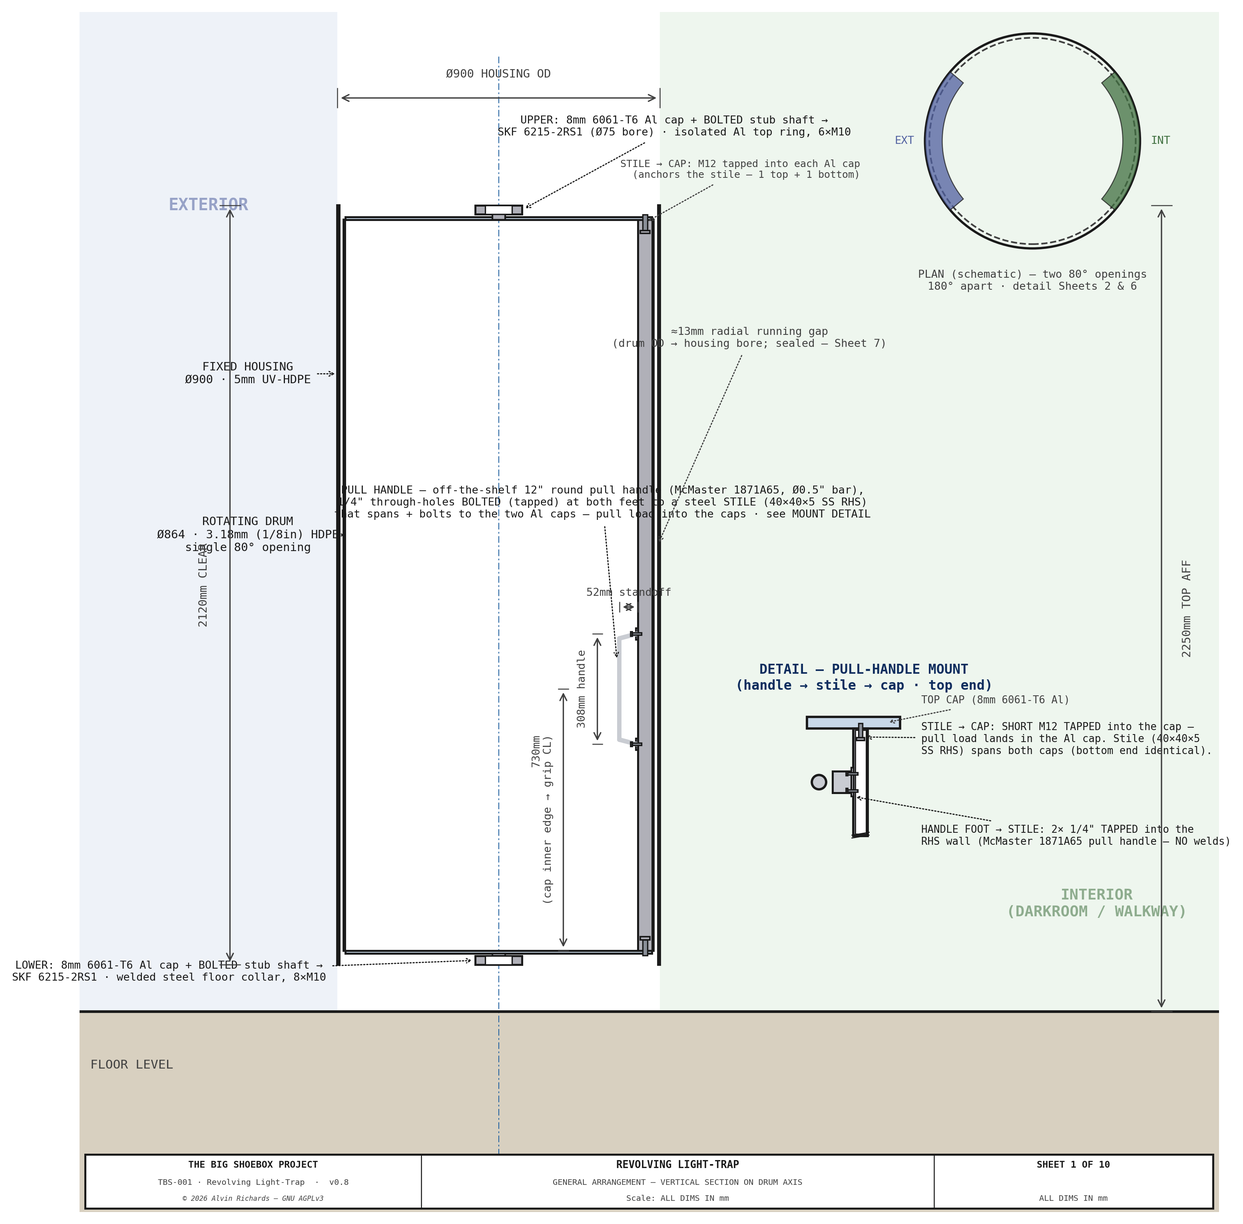
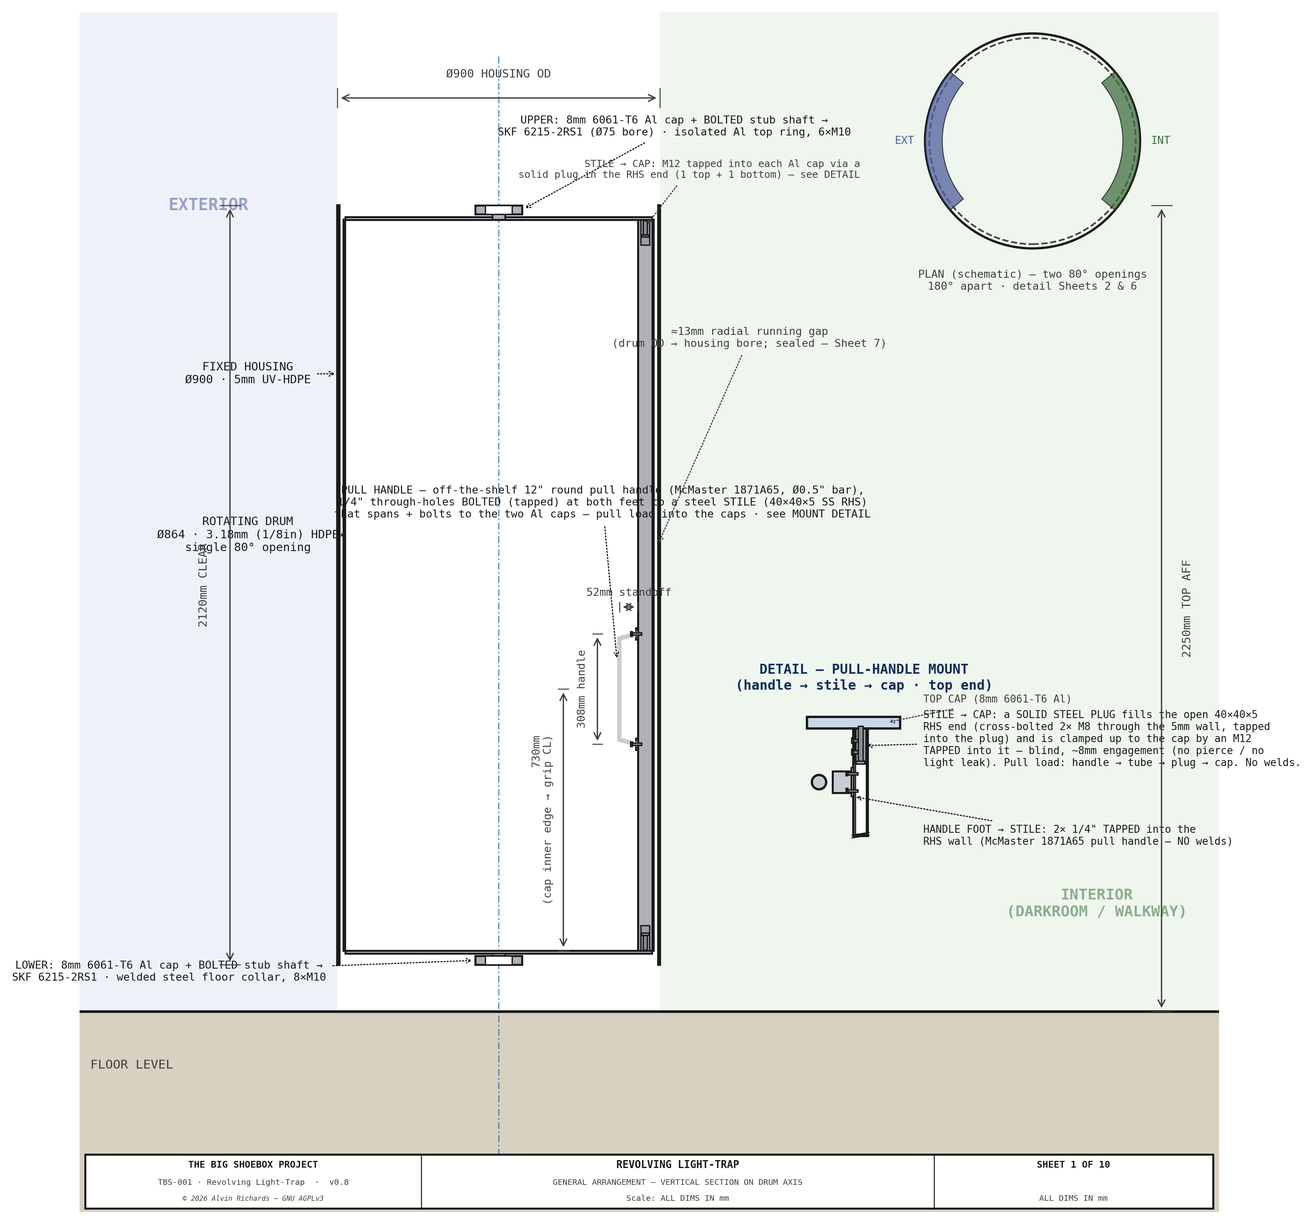
light-trap Sheet 1: stile->cap plug fastener detail
The handle stile is a 40x40x5 open RHS, so the old 'M12 straight into the cap
end' had no valid load path. Reworked to a solid steel plug fitted in each RHS
end (cross-bolted 2x M8 through the walls); a single M12 tapped into the cap
clamps each plug up to it (blind, ~8mm engagement - no pierce/light leak), so
the pull load runs handle -> tube -> plug -> cap.

- Sheet 1 PULL-HANDLE MOUNT detail redrawn (plug + cross-bolts + M12 + load-path
  note); main-view stile ends updated to match + reference the detail.
- parts.py ll-handle-stile (plugs) + F4/F6 (2x M12 + 4x M8, existing packs),
  report prose reconciled; lot still $97, gates green.

diff --git a/src/generators/generate_lighttrap_diagram.py b/src/generators/generate_lighttrap_diagram.py
@@ -297,10 +297,11 @@ def draw_sheet1():
     STILE_W = 40
     stile_x = DI_R - STILE_W                                     # stile just off the interior wall
     draw_rect(ax, stile_x, Z_CAP_B, STILE_W, Z_CAP_T - Z_CAP_B, fc=C_STEEL, lw=1.2, zorder=6)   # handle stile (cap→cap)
-    draw_bolt(ax, stile_x + STILE_W / 2, Z_CAP_T - 8, 44, d=14, head=-1, end="tapped")          # stile → TOP cap
-    draw_bolt(ax, stile_x + STILE_W / 2, Z_CAP_B + 8, 44, d=14, head=1, end="tapped")           # stile → BOTTOM cap
-    leader(ax, stile_x + STILE_W / 2, Z_CAP_T - 8, stile_x + 620, Z_CAP_T + 140,
-           "STILE → CAP: M12 tapped into each Al cap\n(anchors the stile — 1 top + 1 bottom)", fs=6.0, color=C_DIM,
+    for zc, hd_ in ((Z_CAP_T, -1), (Z_CAP_B, 1)):                                               # stile-end plug + M12 → each cap
+        draw_rect(ax, stile_x + 8, min(zc, zc + hd_ * 70), STILE_W - 16, 70, fc="#9AA0A8", lw=0.8, zorder=7)  # solid plug in tube end
+        draw_bolt(ax, stile_x + STILE_W / 2, zc + hd_ * 22, 40, d=11, head=hd_, end="tapped", zb=8)           # M12 tapped into cap
+    leader(ax, stile_x + STILE_W / 2, Z_CAP_T - 20, stile_x + 620, Z_CAP_T + 140,
+           "STILE → CAP: M12 tapped into each Al cap via a\nsolid plug in the RHS end (1 top + 1 bottom) — see DETAIL", fs=6.0, color=C_DIM,
            ha="right", arrow_style="->", font=FONT)
     GX = stile_x - GRAB_SO                                       # grip standoff, inboard of the stile
     GZ0, GZ1 = GRAB_Z - GRAB_L / 2, GRAB_Z + GRAB_L / 2
@@ -334,10 +335,17 @@ def draw_sheet1():
     ax.text(hdx + 10, hdz + 250, "DETAIL — PULL-HANDLE MOUNT\n(handle → stile → cap · top end)", ha="center",
             va="bottom", fontsize=8, color=TITLE_COL, fontweight="bold", **FONT, zorder=15)
     cpy = hdz + 150                                                                     # top-cap underside plane
-    draw_rect(ax, hdx - 150, cpy, 260, 32, fc=C_ALUM, lw=1.4, zorder=6)                 # TOP CAP (Al)
-    draw_rect(ax, hdx - 20, hdz - 150, 40, cpy - (hdz - 150), fc=C_STEEL, lw=1.4, zorder=6)  # handle stile (40×40×5 SS RHS)
-    draw_rect(ax, hdx - 15, hdz - 145, 30, cpy - (hdz - 145) - 5, fc=BG, lw=0.7, zorder=7)   # RHS bore (hollow, 5mm wall)
-    draw_bolt(ax, hdx, cpy - 6, 40, d=12, head=-1, end="tapped")                        # stile → cap: SHORT M12 TAPPED into the cap
+    draw_rect(ax, hdx - 150, cpy, 260, 32, fc=C_ALUM, lw=1.4, zorder=6)                 # TOP CAP (8mm Al)
+    # handle stile — 40×40×5 SS RHS in section (two 5mm side walls + hollow bore)
+    draw_rect(ax, hdx - 20, hdz - 150, 40, cpy - (hdz - 150), fc=C_STEEL, lw=1.4, zorder=6)
+    draw_rect(ax, hdx - 15, hdz - 145, 30, cpy - (hdz - 145), fc=BG, lw=0.7, zorder=7)  # RHS bore (hollow, 5mm wall)
+    # SOLID STEEL PLUG fitted in the open RHS end — gives the tube a face to fasten; the M12
+    # clamps it up to the cap, and it is cross-bolted to the tube walls so the pull load transfers.
+    draw_rect(ax, hdx - 15, cpy - 96, 30, 96, fc="#9AA0A8", lw=1.2, zorder=8)           # solid plug (fills the bore)
+    ax.add_patch(mpatches.Rectangle((hdx - 7, cpy - 96), 14, 96, fc=BG, ec="none", zorder=8))  # M12 clearance thru plug
+    draw_bolt(ax, hdx, cpy - 43, 98, d=13, head=-1, end="tapped", zb=10)               # M12 up into the TAPPED cap
+    for cz in (cpy - 34, cpy - 66):                                                    # 2× M8 cross-bolts → plug (retention)
+        draw_bolt(ax, hdx - 14, cz, 12, d=8, vertical=False, head=-1, end="tapped", zb=11)
     # off-the-shelf pull-handle foot BOLTED to the stile (2× 1/4" through-screws, tapped into the RHS wall — NO welds)
     draw_rect(ax, hdx - 78, hdz - 30, 58, 60, fc="#C9CCD2", lw=1.2, zorder=5)           # pull-handle arm → foot
     draw_rect(ax, hdx - 26, hdz - 40, 7, 80, fc=C_STEEL, lw=1.0, zorder=6)              # flat foot pad (0.27") on the stile face
@@ -346,9 +354,11 @@ def draw_sheet1():
     draw_circle(ax, hdx - 116, hdz, 20, lw=1.4, color=C_OUT, fill=True, fc="#C9CCD2", zorder=8)  # pull-handle Ø0.5" bar
     for zz in (hdz - 144, hdz - 152):                                                   # break (stile continues to the bottom cap)
         ax.plot([hdx - 24, hdx + 24], [zz - 4, zz + 4], color=C_OUT, lw=0.6, zorder=9)
-    leader(ax, hdx + 70, cpy + 16, hdx + 170, cpy + 78, "TOP CAP (8mm 6061-T6 Al)", fs=6.2, color=C_DIM, ha="left", arrow_style="->", font=FONT)
-    leader(ax, hdx + 6, cpy - 24, hdx + 170, cpy - 30, f"STILE → CAP: SHORT M12 TAPPED into the cap —\npull load lands in the Al cap. Stile ({STILE_W}×{STILE_W}×5\nSS RHS) spans both caps (bottom end identical).", fs=6.2, color=C_OUT, ha="left", arrow_style="->", font=FONT)
-    leader(ax, hdx - 22, hdz - 40, hdx + 170, hdz - 150, "HANDLE FOOT → STILE: 2× 1/4\" TAPPED into the\nRHS wall (McMaster 1871A65 pull handle — NO welds)", fs=6.2, color=C_OUT, ha="left", arrow_style="->", font=FONT)
+    leader(ax, hdx + 70, cpy + 16, hdx + 175, cpy + 80, "TOP CAP (8mm 6061-T6 Al)", fs=6.2, color=C_DIM, ha="left", arrow_style="->", font=FONT)
+    leader(ax, hdx + 8, cpy - 48, hdx + 175, cpy - 30,
+           f"STILE → CAP: a SOLID STEEL PLUG fills the open {STILE_W}×{STILE_W}×5\nRHS end (cross-bolted 2× M8 through the 5mm wall, tapped\ninto the plug) and is clamped up to the cap by an M12\nTAPPED into it — blind, ~8mm engagement (no pierce / no\nlight leak). Pull load: handle → tube → plug → cap. No welds.",
+           fs=6.2, color=C_OUT, ha="left", arrow_style="->", font=FONT)
+    leader(ax, hdx - 22, hdz - 40, hdx + 175, hdz - 150, "HANDLE FOOT → STILE: 2× 1/4\" TAPPED into the\nRHS wall (McMaster 1871A65 pull handle — NO welds)", fs=6.2, color=C_OUT, ha="left", arrow_style="->", font=FONT)
 
     # ── Dimensions ───────────────────────────────────────────────────────────
     draw_dim_h(ax, HO_L, HO_R, Z_TOP + 300, f"Ø{DRUM_D} HOUSING OD",

diff --git a/src/generators/parts.py b/src/generators/parts.py
@@ -901,12 +901,12 @@ PARTS: list[Part] = [
          spec="Interior handle — off-the-shelf 12.13\" unthreaded-through-hole-mount round pull handle (Ø0.5\" bar, 2.06\" standoff, 1/4\" mounting screws). BOLTED at its two feet to the handle stile (ll-handle-stile) — 1/4\" screws tapped into the RHS wall — NOT welded, and not to the drum wall. $6.43 firm.", note="confirmed 2026-08-24 (SKU+URL+price)"),
     Part("ll-handle-stile", "40×40×5 SS RHS pull-handle stile (cap→cap) + M12 cap bolts", "steel-structural",
          "lightlock", 1, "lot", 50, 95, "Metal Supermarkets", "Online Metals",
-         spec="Steel stile (40×40×5 SS RHS, ~2.1 m) spanning + bolted between the two Al caps (4× M12 SHORT bolts TAPPED into the caps) — carries the pull-handle load into the structural caps, NOT the thin HDPE wall. The off-the-shelf pull handle (ll-grab-rail, McMaster 1871A65) bolts to the stile (1/4\" screws tapped into the RHS wall). Est.; firm at order.", note="PRICE-VERIFY (Aug-2026 re-price)"),
+         spec="Steel stile (40×40×5 SS RHS, ~2.1 m) spanning + bolted between the two Al caps — carries the pull-handle load into the structural caps, NOT the thin HDPE wall. The open RHS is closed at each end by a SOLID STEEL PLUG (2× ~30×30×40 blocks cut from bar, cross-bolted through the tube walls with 2× M8 each) that gives the tube a bolting face; a single M12 tapped into each cap clamps the plug up to the cap (blind, ~8mm engagement — no pierce). The off-the-shelf pull handle (ll-grab-rail, McMaster 1871A65) bolts to the stile (1/4\" screws tapped into the RHS wall). Est.; firm at order.", note="PRICE-VERIFY (Aug-2026 re-price)"),
     Part("ll-matte-finish", "Matte-black interior finish", "adhesives-finishes",
          "lightlock", 1, "ea", 40, 70, "local", spec="Black-pigmented sheet (no etch-prime); scuff + flat-black touch-in at welds"),
     Part("ll-fasteners", "Bolts/nuts/isolation washers — cap/ring/collar/stile/handle/edge/housing", "fasteners-hardware",
          "lightlock", 1, "lot", 97, 97, "McMaster-Carr", part_no="91294A328", url="https://www.mcmaster.com/91294A328/",
-         spec="18-8 SS, buy one pack per line (generous spares): F1 cap→flange 8× M10×1.5 CSK (91294A328, $11.58/25); F2/F3 ring/collar→beam 14× M10×1.5 COUNTERSUNK flat-head into the rivet-nuts — flush in the ring/collar underside (~35mm, through the ring/collar + into the beam-wall rivet-nut; same CSK family as F1, longer length — SKU/length to confirm at order); F4 stile→cap 4× M12×1.75 (91180A743, $12.40/10); F5 pull-handle feet 4× 1/4\"-20 (90272A537, $7.21/100); F6 edge-channel→beam 8× M8×1.25 (91280A083, $11.17/50); F7 housing→panel 8× M10×1.5 CSK (91280A370, $10.55/25) + 8× M10 nuts (90576A118, $9.53/50); W ~22× M10 nylon isolation shoulder washers (95610A400, $18.39/100) at every steel↔Al/HDPE joint. Rivet-nuts + blind rivets are separate lines. ≈$97 firm.", note="F2/F3 CSK SKU/length pending (2026-08-25); rest confirmed 2026-08-24"),
+         spec="18-8 SS, buy one pack per line (generous spares): F1 cap→flange 8× M10×1.5 CSK (91294A328, $11.58/25); F2/F3 ring/collar→beam 14× M10×1.5 COUNTERSUNK flat-head into the rivet-nuts — flush in the ring/collar underside (~35mm, through the ring/collar + into the beam-wall rivet-nut; same CSK family as F1, longer length — SKU/length to confirm at order); F4 stile→cap 2× M12×1.75 into the caps via the RHS-end plugs (91180A743, $12.40/10) + 4× M8×1.25 plug cross-bolts (from the F6 M8 pack); F5 pull-handle feet 4× 1/4\"-20 (90272A537, $7.21/100); F6 edge-channel→beam + stile-plug cross-bolts 12× M8×1.25 (91280A083, $11.17/50); F7 housing→panel 8× M10×1.5 CSK (91280A370, $10.55/25) + 8× M10 nuts (90576A118, $9.53/50); W ~22× M10 nylon isolation shoulder washers (95610A400, $18.39/100) at every steel↔Al/HDPE joint. Rivet-nuts + blind rivets are separate lines. ≈$97 firm.", note="F2/F3 CSK SKU/length pending (2026-08-25); rest confirmed 2026-08-24"),
     Part("ll-rivet-nuts", "M10 twist-resistant rivet-nuts (ring/collar→beam) + setting tool", "fasteners-hardware",
          "lightlock", 1, "lot", 53, 53, "McMaster-Carr", part_no="95105A199", url="https://www.mcmaster.com/95105A199/",
          spec="14 needed (6 top-ring + 8 floor-collar → the 3mm RHS axle beam wall, flange on the near face + barrel through into the bore, per Sheets 5/10). 20× M10×1.5 twist-resistant (anti-spin, chromate-plated steel) 0.8–3.0mm grip, 95105A199 ($8.12/10 → 2 packs $16.24) + 1× M10 rivet-nut setting tool (96349A866, $36.62). Twist-resistant over SS since the joint is torqued and sits in the dry walk-through zone. ≈$53 firm.", note="confirmed 2026-08-24 (SKU+URL+price)"),

diff --git a/hinged-panel-report.md b/hinged-panel-report.md
@@ -459,9 +459,9 @@ seals) for the swinging panel, and the structural anchor for the wall-stay eyes.
 | 12mm closed-cell neoprene — top/bottom cap wiper seals | Top + bottom drum-cap wiper seals (12mm closed-cell neoprene, PSA back) + silicone bead to the frame plates. The drum↔housing running-gap seal is now the drum-mounted brush (ll-wiper-brush), not felt. | 1 lot | Canal Rubber / McMaster-Carr | $25–$40 |
 | [Silicone bead sealant (black, UV-stable)](https://www.homedepot.com/p/331895623) (RDX1001bl) | Bearing-housing / light-trap seam seal. Maxisil black natural-stone silicone, 10.5 oz (weather/UV grade, neutral-cure — not a mildewcide bath caulk). | 1 ea | Home Depot | $20 |
 | [12" round pull handle — McMaster 1871A65](https://www.mcmaster.com/1871A65/) (1871A65) | Interior handle — off-the-shelf 12.13" unthreaded-through-hole-mount round pull handle (Ø0.5" bar, 2.06" standoff, 1/4" mounting screws). BOLTED at its two feet to the handle stile (ll-handle-stile) — 1/4" screws tapped into the RHS wall — NOT welded, and not to the drum wall. $6.43 firm. | 1 ea | McMaster-Carr | $6 |
-| 40×40×5 SS RHS pull-handle stile (cap→cap) + M12 cap bolts | Steel stile (40×40×5 SS RHS, ~2.1 m) spanning + bolted between the two Al caps (4× M12 SHORT bolts TAPPED into the caps) — carries the pull-handle load into the structural caps, NOT the thin HDPE wall. The off-the-shelf pull handle (ll-grab-rail, McMaster 1871A65) bolts to the stile (1/4" screws tapped into the RHS wall). Est.; firm at order. | 1 lot | Metal Supermarkets / Online Metals | $50–$95 |
+| 40×40×5 SS RHS pull-handle stile (cap→cap) + M12 cap bolts | Steel stile (40×40×5 SS RHS, ~2.1 m) spanning + bolted between the two Al caps — carries the pull-handle load into the structural caps, NOT the thin HDPE wall. The open RHS is closed at each end by a SOLID STEEL PLUG (2× ~30×30×40 blocks cut from bar, cross-bolted through the tube walls with 2× M8 each) that gives the tube a bolting face; a single M12 tapped into each cap clamps the plug up to the cap (blind, ~8mm engagement — no pierce). The off-the-shelf pull handle (ll-grab-rail, McMaster 1871A65) bolts to the stile (1/4" screws tapped into the RHS wall). Est.; firm at order. | 1 lot | Metal Supermarkets / Online Metals | $50–$95 |
 | Matte-black interior finish | Black-pigmented sheet (no etch-prime); scuff + flat-black touch-in at welds | 1 ea | Local fab | $40–$70 |
-| [Bolts/nuts/isolation washers — cap/ring/collar/stile/handle/edge/housing](https://www.mcmaster.com/91294A328/) (91294A328) | 18-8 SS, buy one pack per line (generous spares): F1 cap→flange 8× M10×1.5 CSK (91294A328, $11.58/25); F2/F3 ring/collar→beam 14× M10×1.5 COUNTERSUNK flat-head into the rivet-nuts — flush in the ring/collar underside (~35mm, through the ring/collar + into the beam-wall rivet-nut; same CSK family as F1, longer length — SKU/length to confirm at order); F4 stile→cap 4× M12×1.75 (91180A743, $12.40/10); F5 pull-handle feet 4× 1/4"-20 (90272A537, $7.21/100); F6 edge-channel→beam 8× M8×1.25 (91280A083, $11.17/50); F7 housing→panel 8× M10×1.5 CSK (91280A370, $10.55/25) + 8× M10 nuts (90576A118, $9.53/50); W ~22× M10 nylon isolation shoulder washers (95610A400, $18.39/100) at every steel↔Al/HDPE joint. Rivet-nuts + blind rivets are separate lines. ≈$97 firm. | 1 lot | McMaster-Carr | $97 |
+| [Bolts/nuts/isolation washers — cap/ring/collar/stile/handle/edge/housing](https://www.mcmaster.com/91294A328/) (91294A328) | 18-8 SS, buy one pack per line (generous spares): F1 cap→flange 8× M10×1.5 CSK (91294A328, $11.58/25); F2/F3 ring/collar→beam 14× M10×1.5 COUNTERSUNK flat-head into the rivet-nuts — flush in the ring/collar underside (~35mm, through the ring/collar + into the beam-wall rivet-nut; same CSK family as F1, longer length — SKU/length to confirm at order); F4 stile→cap 2× M12×1.75 into the caps via the RHS-end plugs (91180A743, $12.40/10) + 4× M8×1.25 plug cross-bolts (from the F6 M8 pack); F5 pull-handle feet 4× 1/4"-20 (90272A537, $7.21/100); F6 edge-channel→beam + stile-plug cross-bolts 12× M8×1.25 (91280A083, $11.17/50); F7 housing→panel 8× M10×1.5 CSK (91280A370, $10.55/25) + 8× M10 nuts (90576A118, $9.53/50); W ~22× M10 nylon isolation shoulder washers (95610A400, $18.39/100) at every steel↔Al/HDPE joint. Rivet-nuts + blind rivets are separate lines. ≈$97 firm. | 1 lot | McMaster-Carr | $97 |
 | [M10 twist-resistant rivet-nuts (ring/collar→beam) + setting tool](https://www.mcmaster.com/95105A199/) (95105A199) | 14 needed (6 top-ring + 8 floor-collar → the 3mm RHS axle beam wall, flange on the near face + barrel through into the bore, per Sheets 5/10). 20× M10×1.5 twist-resistant (anti-spin, chromate-plated steel) 0.8–3.0mm grip, 95105A199 ($8.12/10 → 2 packs $16.24) + 1× M10 rivet-nut setting tool (96349A866, $36.62). Twist-resistant over SS since the joint is torqued and sits in the dry walk-through zone. ≈$53 firm. | 1 lot | McMaster-Carr | $53 |
 | [1/8" blind rivets — brush-holder flange → drum OD (250-pack)](https://www.mcmaster.com/97447A015/) (97447A015) | ~72 rivets (4 brush-holder lines × ~18 @ 120mm) fastening the Al holder flanges to the rotating drum OD — grip ~4.5mm (1.27mm Al flange + 1/8" HDPE). $10.78/250 firm. | 1 pack-250 | McMaster-Carr | $11 |
 | Fabrication — roll + weld 2 HDPE cylinders, roll rim-angle, fit metal caps/bearings | ~16–22 hrs: roll + hot-air/extrusion-weld the 2 HDPE cylinders, roll the Al rim-angle rings, fit the metal caps + SKF 6215 bearings + stub shafts, rivet the lap joints, mount the drum brush holders + edge channels + pull-handle stile. | 1 lot | Local plastic + metal fab | $800–$1,150 |

diff --git a/RELEASE.md b/RELEASE.md
@@ -73,6 +73,7 @@ file** — a release must not ship without a changelog entry:
   **Top-end light-path (axial closure):** the running gap's seal was only proven circumferentially (brushes, plans A–C) — the axial ends weren't drawn (the neoprene cap seals existed only as a note). Added a **TOP-END LIGHT PATH** section to Sheet 7 showing the gap **capped at the cap↔frame neoprene wiper seal + silicone**, with the over-the-top daylight ray killed at the seal — so light can't bypass the brushes over the top/bottom. Also removed a stale horizontal "felt seal" bar that Sheet 10 detail A drew across the running gap (pre-brush artifact), and refreshed the "felt" notes to "brush"/axial-seal wording. **Rivet-nut symbol fix:** the `draw_bolt(end="rivnut")` symbol was redrawn to read as a real rivet-nut — an internally-threaded **barrel aligned with (spanning) the wall thickness** + a low **pancake head** (same profile as the blind-rivet factory head) seated on the **inner (bore-side) edge** — the bolt threads up into it; drawn in a **distinct bronze** so it reads apart from the silver blind rivets. A `wall=` arg passes the drawn metal thickness so the barrel aligns with it (Sheets 5 & 10 + the Sheet 5 rivet-nut inset).
   **Fastener/hardware firm-up:** the fastener BOM was firmed from real McMaster SKUs — DP8010 (`7467A36` $76.29), the bolt/nut/washer lot → **$97 firm** (F1–F7: cap/ring/collar/stile/handle/edge/housing SS bolts + M10 nuts + nylon isolation washers), and two new lines — **`ll-rivet-nuts` $53** (20× M10 twist-resistant rivet-nuts `95105A199` + setting tool `96349A866`, for the 6+8 ring/collar→beam joints) and **`ll-holder-rivets` $11** (`97447A015` ×250, for the brush-holder flanges → drum). lightlock **$2,799–3,864 → $2,943–3,963** (grand total +$144/$121/$99, all gates green). The brush/holder + edge-channel material stay on estimate (Alvin sourcing alternatives). Weight/CG + the §6b swing-cage frame-steel itemization + a project-wide **fastener-standardization** pass still tracked in `TODO.md`. *(In progress.)*
   **Single-piece sections + countersunk ring bolts + shaft-penetration removed (review round):** every structural profile now reads as ONE extrusion rather than assembled plates — the rim-angles (Sheets 4/9/10) and the U-channels (Sheet 9 opening edge + the brush-holders on Sheets 4/7) are drawn as single continuous polygons (new `l_angle()` helper; the brush-holder now reads as a flange **integral** with its U-track, so the rivet clearly ties the whole holder to the shell), and the axle beam + cage corner post are drawn as **hollow RHS in longitudinal section** (new `hollow_beam_long()` helper — solid near/far walls + void, Sheets 5/9/10). The **ring/collar→beam bolts are now countersunk** flush in the ring/collar underside on both hubs (Sheets 5/10 + the rivet-nut inset), so `parts.py` F2/F3 move from M10 hex to **M10×1.5 countersunk flat-head** (same CSK family as the F1 cap bolts; exact length/SKU to confirm at order) — report + master BOM reconciled, lot still $97, gates green. The **stub shaft no longer penetrates the beam**: it was shortened to terminate just below the beam underside — the SKF 6215 bearing (in the ring below the beam) carries + locates the drum and the load reaches the beam through the ring bolts, so there is **no clearance bore and no beam-wall drilling** (Sheets 5/10, hub note rewritten; removes the "depression" ambiguity). Sheet 9's U-channel callout was also moved off Section A-A onto its own Detail B. *(In progress.)*
+  **Stile→cap fastener detail (Sheet 1):** the handle-stile→cap connection was drawn as an M12 straight into the open RHS end, which has no valid load path (the tube end is open). Reworked to a **solid steel plug fitted in each RHS end** (cross-bolted 2× M8 through the tube walls) that gives the open section a bolting face; a single **M12 tapped into the cap** (blind, ~8mm engagement — no pierce/light-leak) clamps each plug up to its cap, so the pull load runs handle → tube → plug → cap. Sheet 1's PULL-HANDLE MOUNT detail redrawn to show the plug + cross-bolts + M12 (with load-path note) and the main-view stile ends updated to match; `parts.py` (`ll-handle-stile` + F4/F6) + report prose reconciled (2× M12 + 4× M8, from existing packs — lot still $97). *(In progress.)*
 - **Film-plane corner wall-mounts + IBC foot ↔ tray clash (branch `film-plane-left-brackets`).** Resolved
   the film-plane left-bracket + tray/IBC cluster. **Tray clash:** the two FRONT IBC floor feet were shifted
   outboard (derived from the tray edge) so their plate + anchors clear the processing-tray basin — the plate

diff --git a/light-trap-selection.md b/light-trap-selection.md
@@ -151,7 +151,7 @@ The light lock is a **fixed housing + single-opening C-shell drum** (no internal
 
 | Item | Specification |
 |------|--------------|
-| Entry handle | Off-the-shelf 12″ (308mm) round pull handle ([McMaster 1871A65](https://www.mcmaster.com/1871A65/), Ø0.5″ bar, 2.06″ standoff), interior face only, at 900mm height — **bolted at both feet** (1/4″ screws tapped into the RHS wall) to a steel **stile that spans and bolts to the two Al caps** (4× M12 tapped into the caps), so the pull load lands in the structural caps (not the thin HDPE wall); no welds, and no fastener pierces the drum wall (no through-hole, no light leak). Mount detail on §9 Sheet 1 |
+| Entry handle | Off-the-shelf 12″ (308mm) round pull handle ([McMaster 1871A65](https://www.mcmaster.com/1871A65/), Ø0.5″ bar, 2.06″ standoff), interior face only, at 900mm height — **bolted at both feet** (1/4″ screws tapped into the RHS wall) to a steel **stile that spans and bolts to the two Al caps**. The stile is a 40×40×5 SS RHS (an open tube), so each end is fitted with a **solid steel plug** (cross-bolted through the tube walls, 2× M8) that gives the open section a bolting face; a single **M12 tapped into the cap** (blind, ~8mm engagement — no pierce, no light leak) clamps each plug up to its cap, so the pull load lands in the structural caps (not the thin HDPE wall) via handle → tube → plug → cap. No welds, and no fastener pierces the drum wall. Mount + plug detail on §9 Sheet 1 |
 | Panel bolts | 8 × M10 countersunk flat-head bolts (lower collar) + 6 × M10 (upper ring), stainless — flush in the ring/collar underside, into the beam-wall rivet-nuts |
 | Lap-joint fasteners | Shell→cap and housing→frame joints: rolled 25×25×3 6061-T6 Al rim-angle + **1/8" (Ø3.18mm) 18-8 SS blind rivets** @ ~60mm (drill Ø3.3 / #30) + 3M DP8010 structural bond (light-tight lap). Shell→cap grip 6.2mm → [McMaster 97525A425](https://www.mcmaster.com/97525A425/); housing→frame grip 8.0mm → [McMaster 97525A435](https://www.mcmaster.com/97525A435/). DP8010 wets the mandrel hole for light-tightness. |
 
